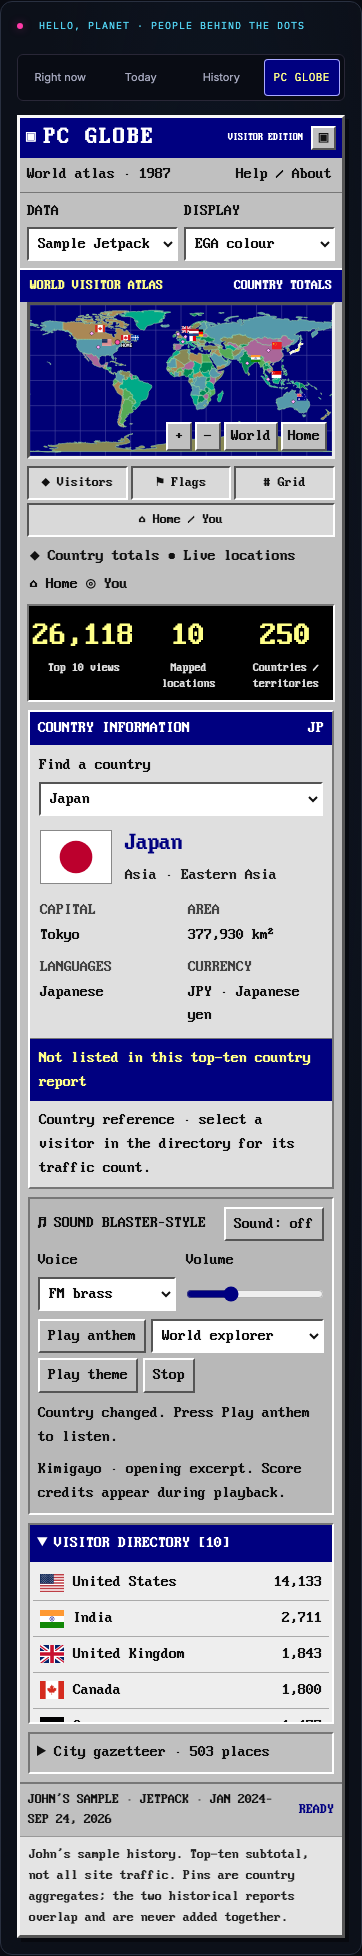
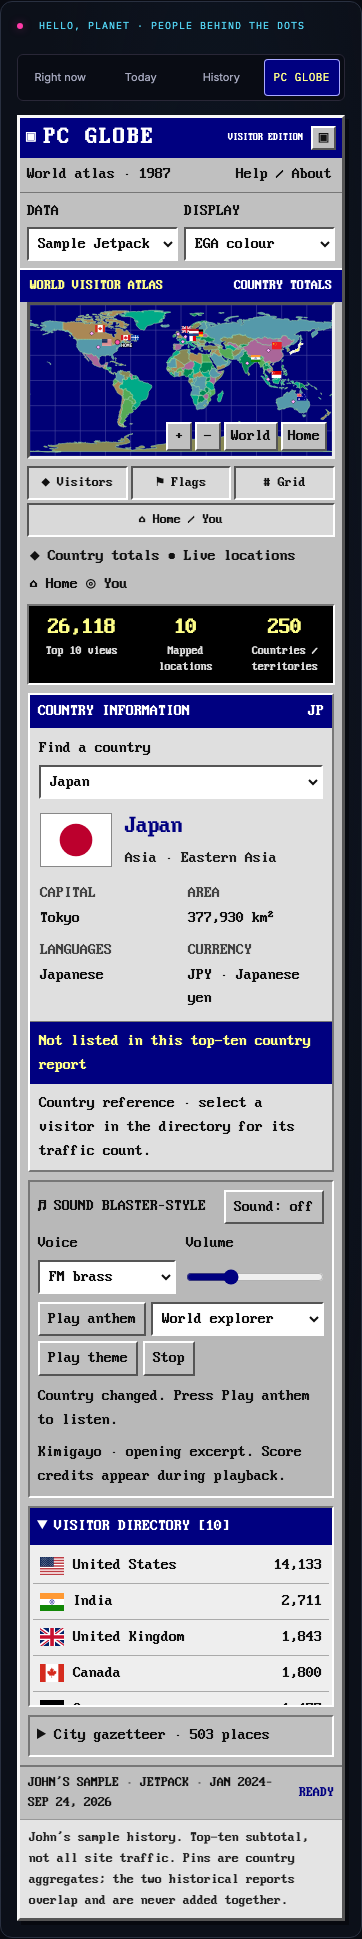
Keep retro totals readable on narrow screens and refresh verification

Changed region(s): [[0.0608, 0.0309, 0.942, 0.9902]]

diff --git a/tests/browser/pc-globe.spec.ts b/tests/browser/pc-globe.spec.ts
@@ -44,5 +44,5 @@ test('privacy preference suppresses the YOU overlay and map failure retains coun
 
 test('PC Globe is accessible and fits desktop and narrow mobile screens',async({page})=>{
  await page.setViewportSize({width:1440,height:1100});await open(page);expect((await new AxeBuilder({page}).include('[data-pc-globe]').analyze()).violations).toEqual([]);await page.locator('[data-globe]').screenshot({path:'artifacts/pc-globe-desktop.png'});
- await page.setViewportSize({width:390,height:844});expect(await page.evaluate(()=>document.documentElement.scrollWidth<=innerWidth)).toBe(true);await page.locator('[data-globe]').screenshot({path:'artifacts/pc-globe-mobile.png'});await page.setViewportSize({width:320,height:700});expect(await page.evaluate(()=>document.documentElement.scrollWidth<=innerWidth)).toBe(true);
+ await page.setViewportSize({width:390,height:844});expect(await page.evaluate(()=>document.documentElement.scrollWidth<=innerWidth)).toBe(true);await page.locator('[data-globe]').screenshot({path:'artifacts/pc-globe-mobile.png'});await page.setViewportSize({width:320,height:700});expect(await page.evaluate(()=>document.documentElement.scrollWidth<=innerWidth)).toBe(true);expect(await page.locator('.pc-readouts strong').evaluateAll(nodes=>nodes.every(node=>{const range=document.createRange();range.selectNodeContents(node);return range.getBoundingClientRect().width<=node.clientWidth;}))).toBe(true);
 });

diff --git a/src/styles/pc-globe.css b/src/styles/pc-globe.css
@@ -15,3 +15,6 @@
 @media(max-width:600px){.pc-globe .pc-map-heading{font-size:14px!important}.pc-globe .pc-overlays button{font-size:14px!important}.pc-globe .pc-readouts span{font-size:12px}.pc-globe .pc-sound-heading{flex-wrap:wrap}}
 
 .pc-sound-controls label{display:grid;grid-template-columns:1fr;gap:4px}.pc-sound-controls input{align-self:center;min-height:34px;margin:0}
+/* Keep six-digit totals readable inside the narrow retro readout columns. */
+.pc-globe .pc-readouts strong{line-height:1.3}
+@media(max-width:600px){.pc-globe .pc-readouts strong{font-size:clamp(20px,5.8vw,26px);letter-spacing:0}}

diff --git a/VERIFICATION.md b/VERIFICATION.md
@@ -9,9 +9,10 @@ This records the standalone release, including the finished PC GLOBE visitor atl
 - `npm test`: **15 passing** collector, geolocation, and connection tests. The standalone baseline starts at zero and persists without duplication.
 - `npm run build`: static demo, display-only embed, and supporting routes build successfully. Three.js produces a chunk-size advisory; it is dynamically imported.
 - `npm run test:browser` against the built output: **13 passing** scenarios covering WebGL rendering; labeled example/history data; atlas search; no collector writes from atlas/embed interactions; no-WebGL and API-failure behavior; live/today snapshots; stale-data removal; country/palette/overlay/zoom/expansion controls; privacy preferences; audio generation/stop/delayed-fetch cancellation; automated accessibility; and narrow layouts.
+- A final narrow-screen review found clipped six-digit retro totals. Responsive type sizing was corrected, and the focused 320px readout-fit/accessibility test passes.
 - Desktop and mobile screenshots are saved in `docs/images/`. Screenshots show explicitly labeled examples or John's sample historical aggregates, not fabricated live visitors.
 - Markdown local links checked. Allowlisted-source review and secret-pattern scanning found no private keys, recognizable tokens, credential-bearing URLs, or private machine paths in publishable files. Runtime databases, GeoIP MMDBs, private exports, original DOS software, and repository history from the personal website are excluded.
-- All 297 public PC GLOBE assets from the verified website release are included with their source/license notices. Only the standalone source configuration and sample-history labels are adapted.
+- All 298 public PC GLOBE assets from the verified website release are included with their source/license notices. Only the standalone source configuration and sample-history labels are adapted.
 
 A browser-test update was needed because the finished retro interface puts the city gazetteer inside a collapsible panel. The test now opens that panel before interacting. No product behavior was weakened to make the test pass.
 
